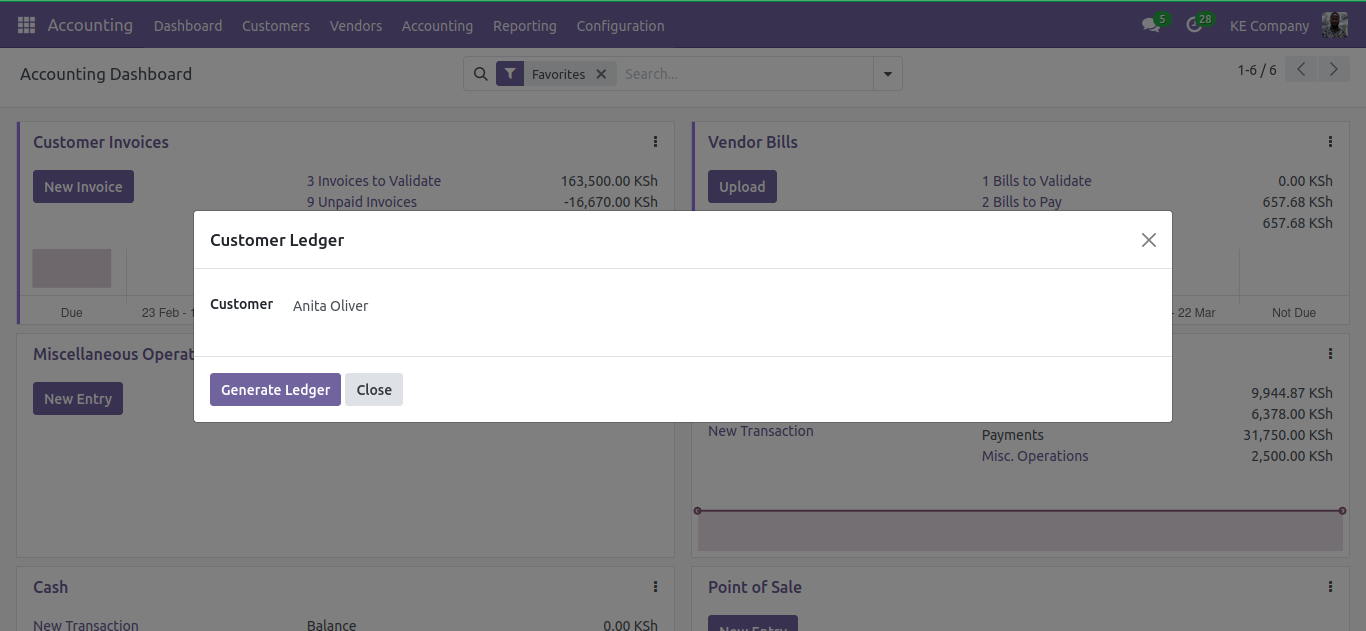
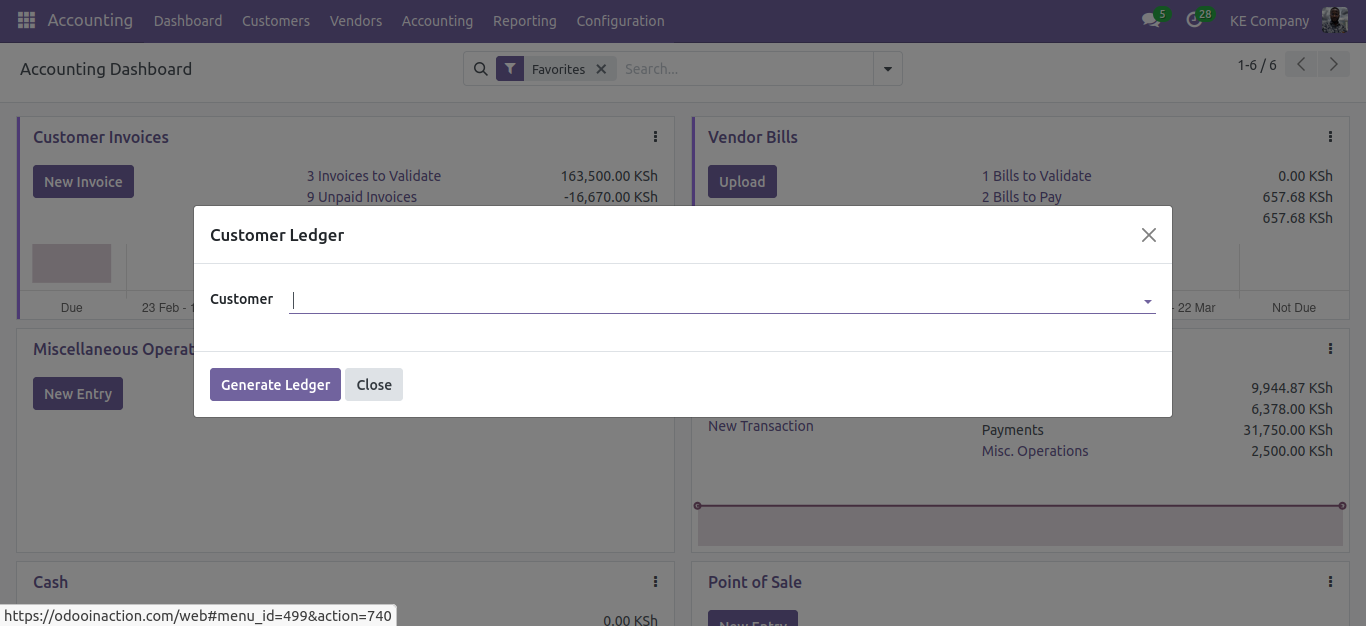
[UPDATE] updated README

diff --git a/README.md b/README.md
@@ -1,1 +1,15 @@
-Generate Customers' and Vendors' Ledger Reports
+## Customer / Vendor (Partner) Ledger Report
+
+This module enables you to generate customers' and vendors' ledger reports in Odoo. It depends on Invoicing (account)
+
+When installed, it introduces a new menu item __Customer Ledger__ in __Invoicing(Account)__ > __Reporting__.
+
+<img src="customer_partner_ledger/static/description/images/statement1.png" width="100%"/>
+
+This Menu Item opens a wizard, where you select the partner whose report you want to generate.
+
+<img src="customer_partner_ledger/static/description/images/statement2.png" width="100%"/>
+
+
+A sample of the generated report. The report takes the configured document layout.
+<img src="customer_partner_ledger/static/description/images/statement3.png" width="100%"/>
